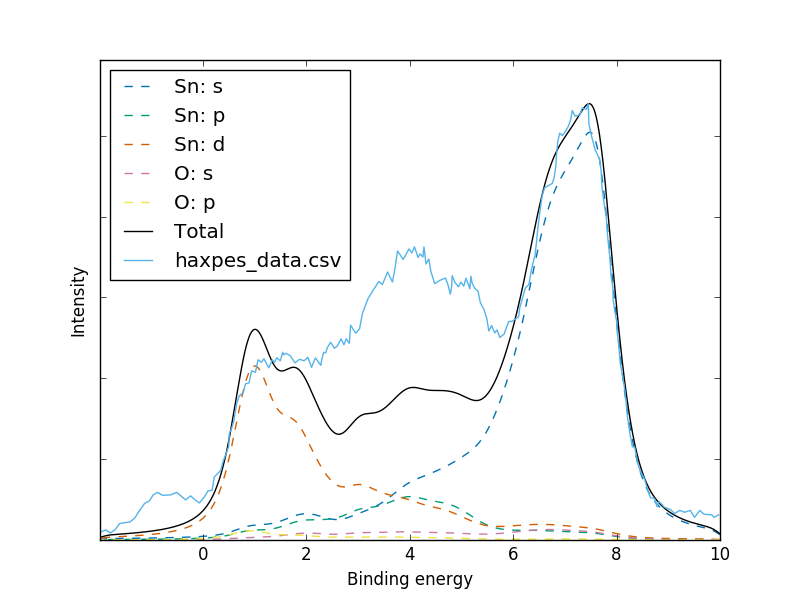
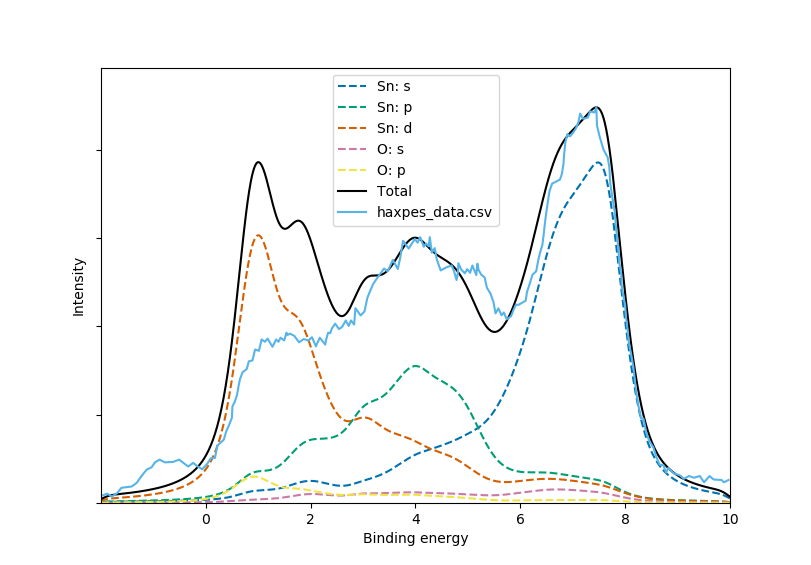
DOC: update HAXPES tutorial to use Scofield fit

diff --git a/docs/source/tutorials.rst b/docs/source/tutorials.rst
@@ -264,17 +264,18 @@ HAXPES
 
 A HAXPES spectrum was obtained by digitizing Fig. 1 of `Nagata et
 al. (2011) <https://doi.org/10.1063/1.3596449>`__. These experiments
-were performed with 5.95 keV x-rays, while the weighting parameters
-from Yeh and Lindau are for 8.05 keV so an exact match is unlikely::
+were performed with 5.95 keV x-rays; we set ``--w 5.95`` to estimate
+corresponding cross-sections by fitting to
+`Scofield (1973) <https://doi.org/10.2172/4545040>`__::
 
    galore test/SnO2/vasprun.xml.gz --plot -g 0.3 -l 0.5 --pdos \
-     --w yeh_haxpes --flipx --xmin -2 --xmax 10 \
+     --w 5.95 --flipx --xmin -2 --xmax 10 \
      --overlay test/SnO2/haxpes_data.csv --overlay_offset -3.7 \
      --ylabel Intensity --overlay_style -
 
 We see that the weighting goes some way to rebalancing the peak
 intensities but once again the Sn-d states are over-represented.
-Surface states above the valence band are also seen again.
+Surface states above the valence band are seen in the experimental data.
 
 
 Python API
